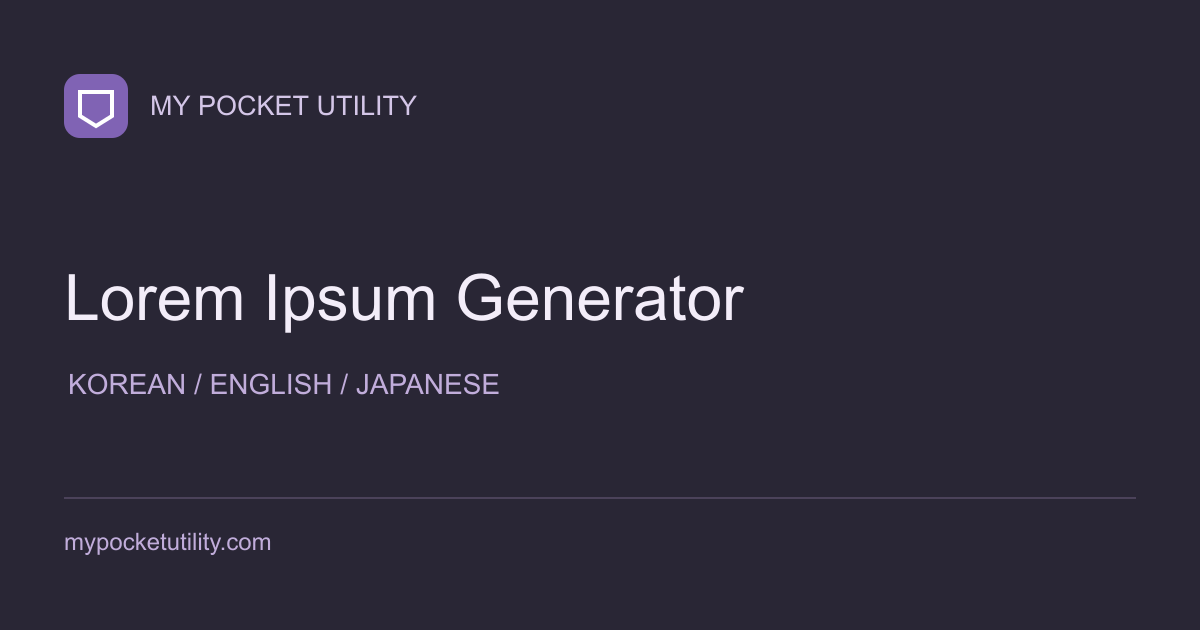
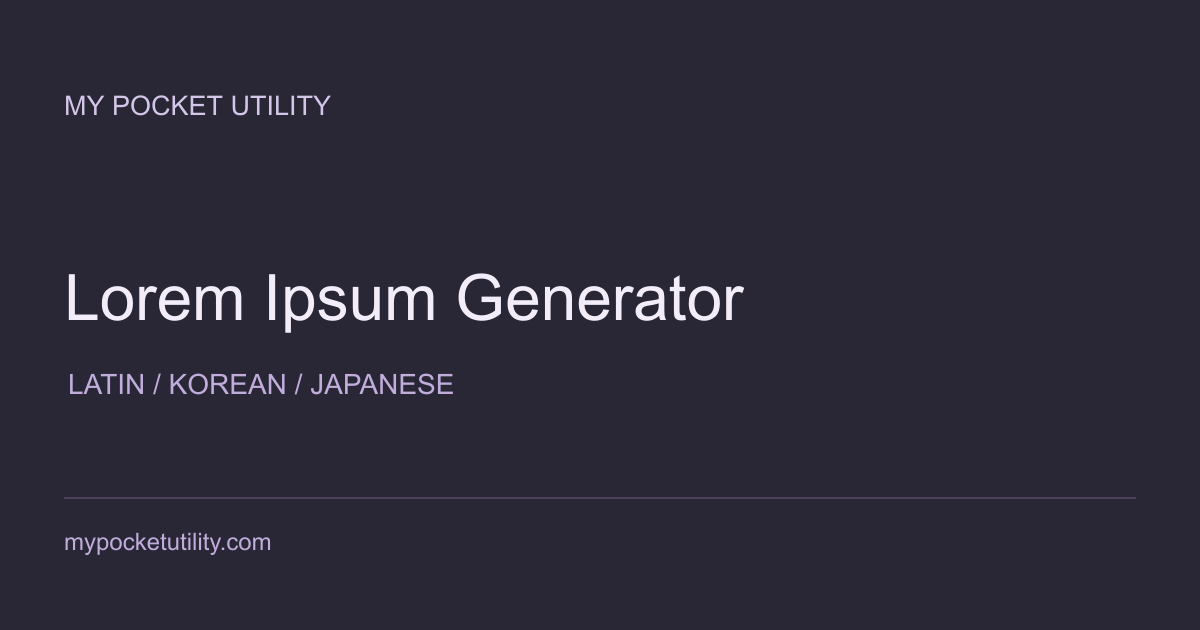
Generate Latin lorem ipsum and nonsensical localized filler with length controls

Changed region(s): [[0.0617, 0.573, 0.4317, 0.6333], [0.0308, 0.0905, 0.3392, 0.2413]]

diff --git a/src/LoremGenerator.tsx b/src/LoremGenerator.tsx
@@ -1,13 +1,14 @@
 import {useState} from 'react';
-import {getLanguage,t as tr} from './i18n.mjs';
-import {generateLorem} from './lorem.mjs';
+import {t as tr} from './i18n.mjs';
+import {generateFiller} from './lorem.mjs';
 export default function LoremGenerator(){
- const [language,setLanguage]=useState(getLanguage()),[paragraphs,setParagraphs]=useState(3),[sentences,setSentences]=useState(4),[text,setText]=useState(()=>generateLorem(getLanguage())),[status,setStatus]=useState('');
- const generate=(lang=language,p=paragraphs,s=sentences)=>{setText(generateLorem(lang,p,s));setStatus('')};
+ const [language,setLanguage]=useState('la'),[paragraphs,setParagraphs]=useState(3),[sentences,setSentences]=useState(4),[text,setText]=useState(()=>generateFiller()),[status,setStatus]=useState(''),[mode,setMode]=useState('paragraphs');
+ const generate=(lang=language,p=paragraphs,s=sentences,m=mode)=>{setText(generateFiller(lang,m,p,s));setStatus('')};
  const save=()=>{const url=URL.createObjectURL(new Blob([text],{type:'text/plain;charset=utf-8'}));const a=document.createElement('a');a.href=url;a.download='lorem-'+language+'.txt';a.click();setTimeout(()=>URL.revokeObjectURL(url),1000)};
- return <><div className="tool-heading"><span className="eyebrow">LOREM IPSUM GENERATOR</span><h1>{tr('Lorem ipsum 생성기')}</h1><p>{tr('한글·영어·일본어 예시 문장을 간편하게 생성하세요.')}</p></div><section className="og-input"><div className="lorem-options">
- <label>{tr('문장 언어')}<select value={language} onChange={e=>{setLanguage(e.target.value);generate(e.target.value)}}><option value="ko">{tr('한국어')}</option><option value="en">English</option><option value="ja">日本語</option></select></label>
- <label>{tr('문단 수')}<input type="number" min="1" max="20" value={paragraphs} onChange={e=>{const n=Math.max(1,Math.min(20,Number(e.target.value)||1));setParagraphs(n);generate(language,n)}}/></label>
- <label>{tr('문단당 문장 수')}<input type="number" min="1" max="10" value={sentences} onChange={e=>{const n=Math.max(1,Math.min(10,Number(e.target.value)||1));setSentences(n);generate(language,paragraphs,n)}}/></label></div>
- <textarea aria-label={tr('생성된 텍스트')} value={text} readOnly rows={12}/><div className="og-actions"><button onClick={()=>generate()}>{tr('다시 생성')}</button><button onClick={async()=>{try{await navigator.clipboard.writeText(text);setStatus('복사했어요.')}catch{setStatus('복사하지 못했습니다. 텍스트를 직접 선택해 주세요.')}}}>{tr('전체 복사')}</button><button onClick={save}>{tr('TXT 다운로드')}</button></div><p role="status" className="og-hint">{tr(status)}</p></section></>;
+ return <><div className="tool-heading"><span className="eyebrow">LOREM IPSUM GENERATOR</span><h1>{tr('Lorem ipsum 생성기')}</h1><p>{tr('의미에 집중하지 않고 레이아웃을 확인하는 더미 텍스트를 생성하세요.')}</p></div><section className="og-input"><div className="lorem-options">
+ <label>{tr('문장 언어')}<select value={language} onChange={e=>{setLanguage(e.target.value);generate(e.target.value)}}><option value="ko">{tr('한국어')}</option><option value="la">{tr('라틴어 · Lorem ipsum')}</option><option value="ja">日本語</option></select></label>
+ <label>{tr('분량 기준')}<select value={mode} onChange={e=>{setMode(e.target.value);setParagraphs(3);generate(language,3,sentences,e.target.value)}}><option value="paragraphs">{tr('문단 수')}</option><option value="words">{tr('단어 수')}</option><option value="characters">{tr('글자 수')}</option></select></label>
+ <label>{tr('분량')}<input type="number" min="1" max={mode==='paragraphs'?20:mode==='words'?2000:10000} value={paragraphs} onChange={e=>{const n=Math.max(1,Math.min(mode==='paragraphs'?20:mode==='words'?2000:10000,Number(e.target.value)||1));setParagraphs(n);generate(language,n)}}/></label>
+ {mode==='paragraphs'&&<label>{tr('문단당 문장 수')}<input type="number" min="1" max="10" value={sentences} onChange={e=>{const n=Math.max(1,Math.min(10,Number(e.target.value)||1));setSentences(n);generate(language,paragraphs,n)}}/></label>}</div>
+ <p className="og-hint">{tr('글자 수는 공백·문장부호를 포함합니다. 단어 수는 공백 기준이며, 일본어는 문장 단위로 구분합니다.')}</p><textarea aria-label={tr('생성된 텍스트')} value={text} readOnly rows={12}/><div className="og-actions"><button onClick={()=>generate()}>{tr('다시 생성')}</button><button onClick={async()=>{try{await navigator.clipboard.writeText(text);setStatus('복사했어요.')}catch{setStatus('복사하지 못했습니다. 텍스트를 직접 선택해 주세요.')}}}>{tr('전체 복사')}</button><button onClick={save}>{tr('TXT 다운로드')}</button></div><p role="status" className="og-hint">{tr(status)}</p></section></>;
 }

diff --git a/src/App.tsx b/src/App.tsx
@@ -21,7 +21,7 @@ import {dateLabel} from './i18n.mjs';
 import {normalizeWeekQuery} from './week-input.mjs';
 import { holidayName } from './holidays.mjs';
 import { koreaToday, isoWeek, searchWeek, dateKey, addDays, fromWeek, weeksInYear } from './week.mjs';
-const tools = [{id:'lorem-ipsum',name:'Lorem ipsum 생성기',english:'LOREM IPSUM GENERATOR',category:'텍스트·경로',text:'한글·영어·일본어 예시 문장을 간편하게 생성하세요.',Icon:Type,color:'purple',tags:['KO / EN / JA']},{id:'url-expander',name:'단축 URL 풀기',english:'URL EXPANDER',category:'텍스트·경로',text:'최종 주소와 광고·추적 파라미터를 확인하세요.',Icon:Search,color:'blue',tags:['URL','파라미터']},{id:'character-counter',name:'글자수 계산기',english:'CHARACTER COUNTER',category:'텍스트·경로',text:'글자수부터 한글 2바이트 환산·UTF-8 용량까지 한눈에.',Icon:Search,color:'purple',tags:['UTF-8','바이트']},{id:'url-linter',name:'메타태그 검사',english:'META TAG CHECKER',category:'텍스트·경로',text:'공유 전 제목·설명·이미지를 확인하세요.',Icon:Search,color:'blue',tags:['Open Graph','HTML 검사']},{
+const tools = [{id:'lorem-ipsum',name:'Lorem ipsum 생성기',english:'LOREM IPSUM GENERATOR',category:'텍스트·경로',text:'의미에 집중하지 않고 레이아웃을 확인하는 더미 텍스트를 생성하세요.',Icon:Type,color:'purple',tags:['LA / KO / JA']},{id:'url-expander',name:'단축 URL 풀기',english:'URL EXPANDER',category:'텍스트·경로',text:'최종 주소와 광고·추적 파라미터를 확인하세요.',Icon:Search,color:'blue',tags:['URL','파라미터']},{id:'character-counter',name:'글자수 계산기',english:'CHARACTER COUNTER',category:'텍스트·경로',text:'글자수부터 한글 2바이트 환산·UTF-8 용량까지 한눈에.',Icon:Search,color:'purple',tags:['UTF-8','바이트']},{id:'url-linter',name:'메타태그 검사',english:'META TAG CHECKER',category:'텍스트·경로',text:'공유 전 제목·설명·이미지를 확인하세요.',Icon:Search,color:'blue',tags:['Open Graph','HTML 검사']},{
   id: 'markdown',
   name: '마크다운 변환',
   english: 'MARKDOWN CONVERTER',
